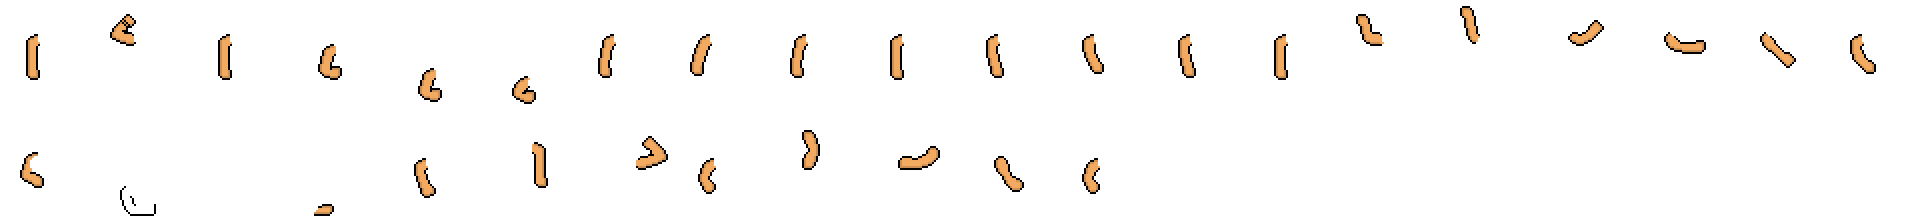
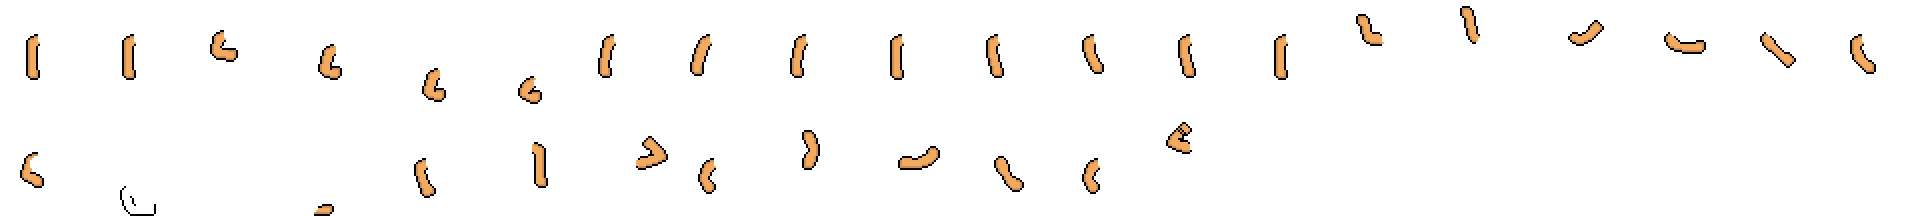
Tweaked Leona's 2 handed weapon swing animation. Fixed some issues with subattack system, and Leona's sub attack.

Changed region(s): [[0.0312, 0.0833, 0.125, 0.3611], [0.2188, 0.3056, 0.2812, 0.4722], [0.5938, 0.5833, 0.625, 0.7222]]

diff --git a/Companions/Leona/LeonaGreatswordattack.cs b/Companions/Leona/LeonaGreatswordattack.cs
@@ -10,16 +10,16 @@ namespace terraguardians.Companions.Leona
         public override string Name => "Greatsword Slice";
         public override string Description => "Leona will use the Greatsword she's carrying to attack a foe.";
         public override SubAttackData GetSubAttackData => new LeonaGreatswordAttackData();
-        public override float Cooldown => 5f;
+        //public override float Cooldown => 5f;
 
         public override bool AutoUseCondition(Companion User, SubAttackData Data)
         {
             LeonaCompanion Leona = User as LeonaCompanion;
             if (User.TargettingSomething && Leona.HoldingSword)
             {
-                Vector2 Distance = (User.Target.Center - Leona.Center);
+                Vector2 Distance = (User.Target.Center - Leona.Bottom - Vector2.UnitY * Leona.Base.Height * Leona.Scale * 0.5f);
                 int TargetWidth = User.Target.width, TargetHeight = User.Target.height;
-                if (MathF.Abs(Distance.X) < TargetWidth + 80 && MathF.Abs(Distance.Y) < TargetHeight + 80)
+                if (MathF.Abs(Distance.X) < TargetWidth + 100 * User.Scale && MathF.Abs(Distance.Y) < TargetHeight + 100 * User.Scale)
                 {
                     return true;
                 }
@@ -30,7 +30,7 @@ namespace terraguardians.Companions.Leona
         public override void OnBeginUse(Companion User, SubAttackData data)
         {
             LeonaGreatswordAttackData Data = (LeonaGreatswordAttackData)data;
-            Data.SwingDuration = (int)(MathF.Max(3, 40 * User.GetAttackSpeed<MeleeDamageClass>()));
+            Data.SwingDuration = (int)(MathF.Max(3, 32 * User.GetAttackSpeed<MeleeDamageClass>()));
             Data.Damage = 20;
         }
 
@@ -42,29 +42,37 @@ namespace terraguardians.Companions.Leona
                 Data.EndUse();
             }
             LeonaCompanion Leona = User as LeonaCompanion;
-            Leona.MoveLeft = Leona.MoveRight = Leona.ControlJump = Leona.MoveDown = false;
+            if (Leona.velocity.Y == 0)
+                Leona.MoveLeft = Leona.MoveRight = Leona.ControlJump = Leona.MoveDown = false;
             Leona.controlUseItem = false;
             Data.AnimationPercentage = Data.GetTime * (1f / Data.SwingDuration);
             Data.SwordPercentage = MathF.Min(Data.AnimationPercentage * 1.3f, 1);
             Data.SwordPercentage = Data.SwordPercentage * Data.SwordPercentage;
             //Data.AnimationPercentage *= Data.AnimationPercentage;
             Rectangle ItemHitbox = new Rectangle((int)User.Center.X, (int)User.Center.Y, (int)(80 * User.Scale), (int)(80 * User.Scale));
-            if (Data.SwordPercentage < 0.333f)
-            {
-                ItemHitbox.Inflate((int)(ItemHitbox.Width * 0.2f), (int)(ItemHitbox.Height * 0.4f));
-                ItemHitbox.X += (int)(ItemHitbox.Width * 0.5f * User.direction);
-            }
-            else if (Data.SwordPercentage < 0.666f)
+            if (Data.SwordPercentage > 0.666f)
             {
                 ItemHitbox.Inflate((int)(ItemHitbox.Width * 0.3f), (int)(ItemHitbox.Height * 0.3f));
-                ItemHitbox.X += (int)(ItemHitbox.Width * 0.4f * User.direction);
-                ItemHitbox.Y -= (int)(ItemHitbox.Height * 0.4f * User.gravDir);
+                ItemHitbox.X += (int)(ItemHitbox.Width * 0.8f * User.direction);
+                ItemHitbox.Y -= (int)(ItemHitbox.Height * 0.8f * User.gravDir);
             }
-            else
+            else if (Data.SwordPercentage > 0.333f)
+            {
+                ItemHitbox.Inflate((int)(ItemHitbox.Width * 0.6f), (int)(ItemHitbox.Height * 0.4f));
+                ItemHitbox.X += (int)(ItemHitbox.Width * User.direction);
+            }
+            else 
             {
                 ItemHitbox.Inflate((int)(ItemHitbox.Width * 0.6f), (int)(ItemHitbox.Height * 0.2f));
-                ItemHitbox.Y -= (int)(ItemHitbox.Width * 0.5f * User.gravDir);
+                ItemHitbox.Y -= (int)(ItemHitbox.Height * 0.8f * User.gravDir);
             }
+            /*for (int i = 0; i < 4; i++)
+            {
+                Vector2 Position = new Vector2(ItemHitbox.X, ItemHitbox.Y);
+                if (i == 1 || i == 3) Position.X += ItemHitbox.Width;
+                if (i >= 2) Position.Y += ItemHitbox.Height;
+                Dust.NewDust(Position, 1, 1, 5);
+            }*/
             HurtCharactersInRectangle(User, ItemHitbox, Data.Damage, ModContent.GetInstance<MeleeDamageClass>(), 8, Data);
         }
 

diff --git a/Companions/Leona/LeonaBase.cs b/Companions/Leona/LeonaBase.cs
@@ -171,10 +171,11 @@ namespace terraguardians.Companions
                 left.AddFramePoint2X(29, 35, 21);
                 left.AddFramePoint2X(30, 29, 39);
                 
-                right.AddFramePoint2X(2, 34, 12);
-                right.AddFramePoint2X(3, 37, 18);
-                right.AddFramePoint2X(4, 42, 40);
-                right.AddFramePoint2X(5, 35, 49);
+                right.AddFramePoint2X(1, 34, 12);
+                right.AddFramePoint2X(2, 28, 4);
+                right.AddFramePoint2X(3, 41, 18);
+                right.AddFramePoint2X(4, 43, 40);
+                right.AddFramePoint2X(5, 42, 49);
 
                 right.AddFramePoint2X(15, 23, 5);
                 right.AddFramePoint2X(16, 33, 12);
@@ -198,9 +199,10 @@ namespace terraguardians.Companions
             get
             {
                 AnimationPositionCollection anim = new AnimationPositionCollection(17, 17, true);
+                anim.AddFramePoint2X(2, 14, 15);
                 anim.AddFramePoint2X(3, 21, 22);
                 anim.AddFramePoint2X(4, 29, 31);
-                anim.AddFramePoint2X(5, 23, 38);
+                anim.AddFramePoint2X(5, 25, 38);
                 
                 anim.AddFramePoint2X(20, 16, 22);
                 anim.AddFramePoint2X(24, 19, 25);

diff --git a/SubAttack.cs b/SubAttack.cs
@@ -117,13 +117,15 @@ namespace terraguardians
                 NPC n = target as NPC;
                 if (n.dontTakeDamage || !User.CanNPCBeHitByPlayerOrPlayerProjectile(n))
                     return false;
-                NPC.HitInfo info = new NPC.HitInfo();
+                NPC.HitModifiers mod = n.GetIncomingStrikeModifiers(DamageType, HitDirection);
+                NPC.HitInfo info = mod.ToHitInfo(Damage, Critical, Knockback, true, User.luck);
                 //info.Damage = Damage;
-                info.Crit = Critical;
+                /*info.Crit = Critical;
                 info.HitDirection = HitDirection;
                 info.DamageType = DamageType;
-                info.Knockback = Knockback;
-                info.Damage = Damage;
+                if (n.knockBackResist != 0)
+                    info.Knockback = Knockback;
+                info.Damage = Damage;*/
                 int dmg = n.StrikeNPC(info);
                 if (dmg > 0)
                 {

diff --git a/Companions/Leona/LeonaCompanion.cs b/Companions/Leona/LeonaCompanion.cs
@@ -36,7 +36,7 @@ namespace terraguardians.Companions.Leona
             {
                 if (ArmFramesID[1] < 20 && (ArmFramesID[1] < 15 || ArmFramesID[1] >= 19))
                 {
-                    ArmFramesID[1] = 2;
+                    ArmFramesID[1] = 1;
                 }
             }
             else if (ArmFramesID[1] == 27)
